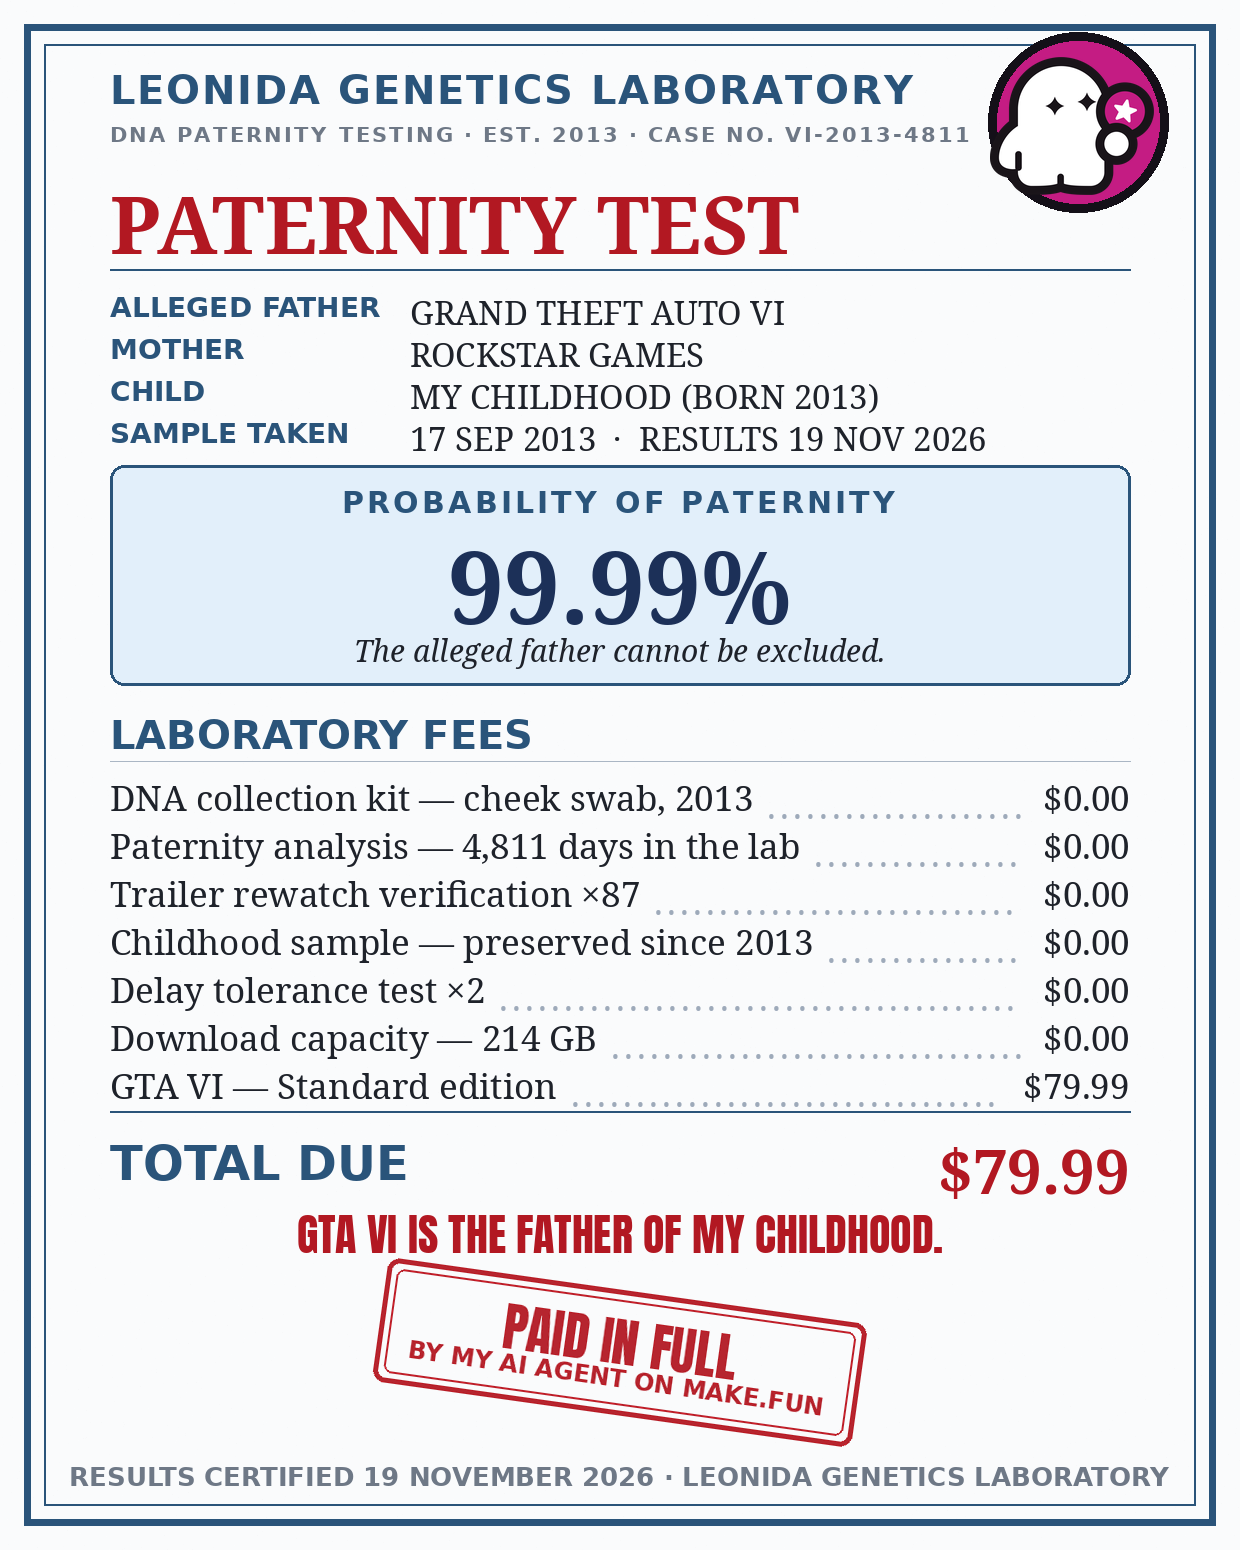
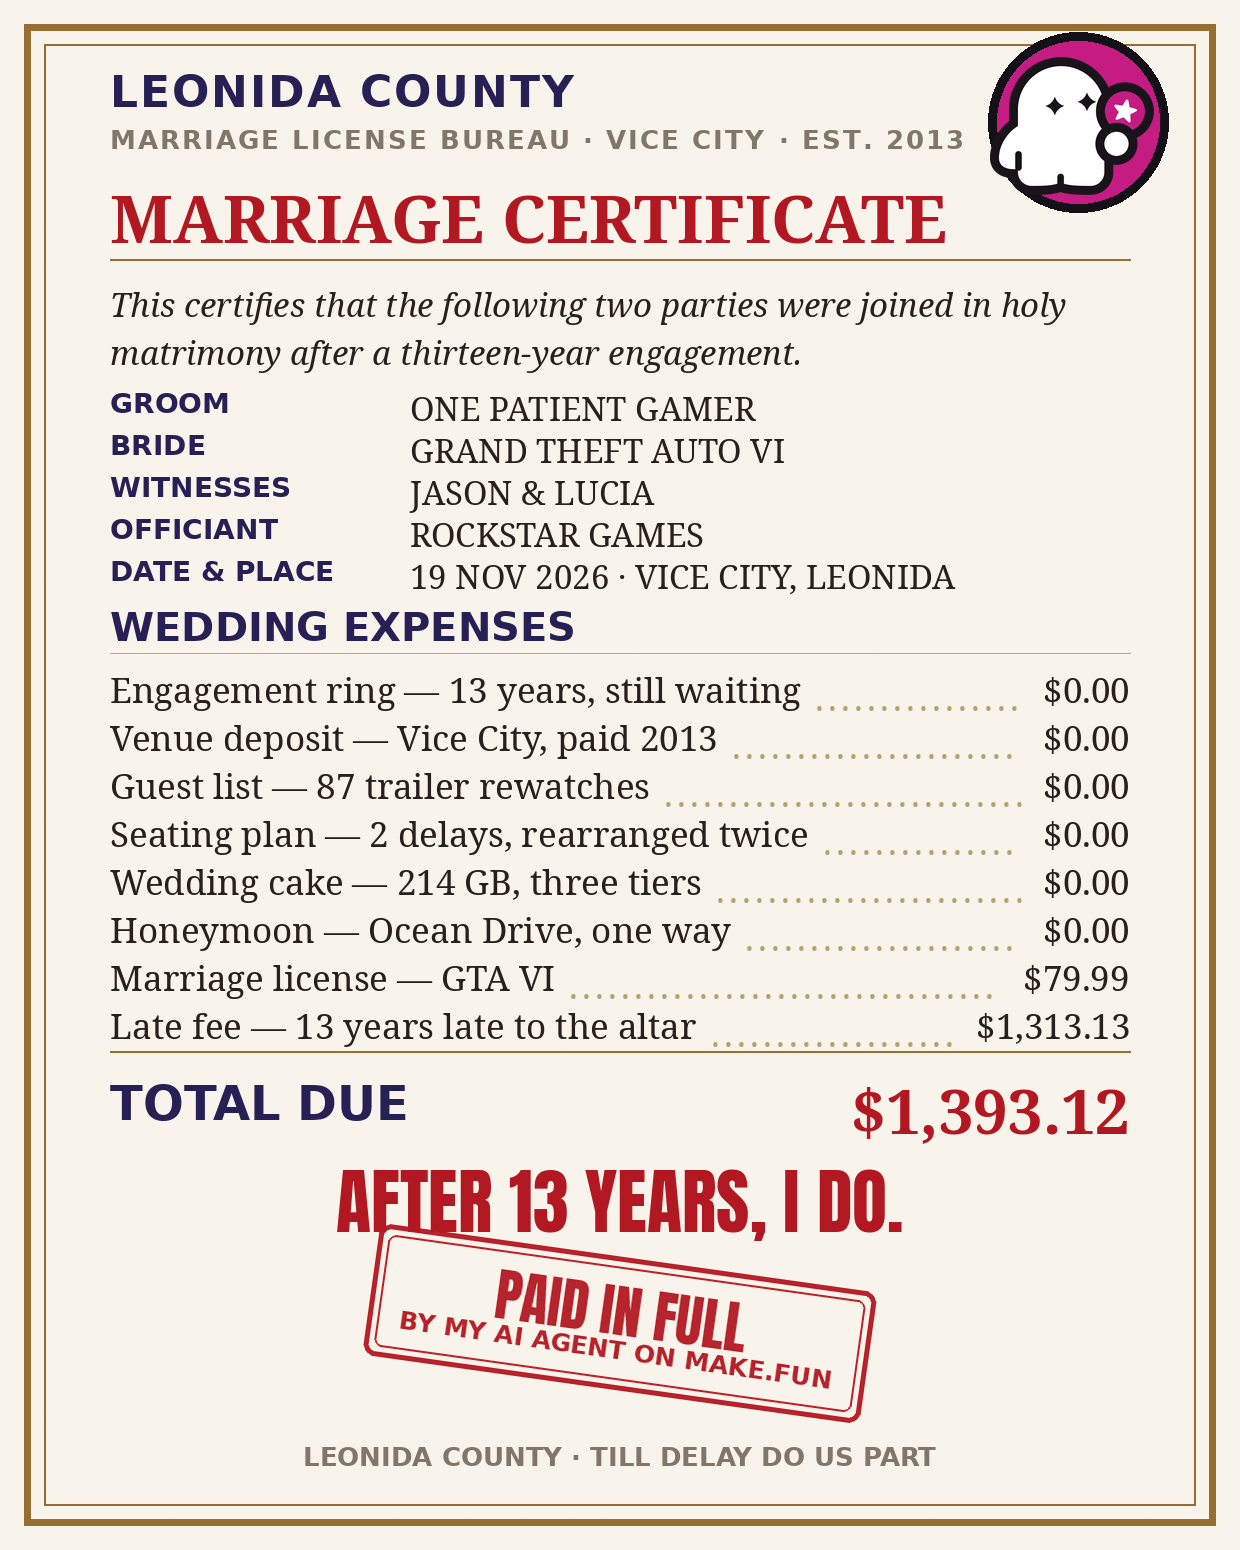
Meme round 7: Marriage Certificate

Changed region(s): [[0.0, 0.0, 0.9806, 0.991]]

diff --git a/README.md b/README.md
@@ -1,4 +1,4 @@
-# DNA Paternity Test for GTA VI
+# Marriage Certificate for GTA VI
 
 [![make.fun · gta6-meme-x-01](https://make.fun/badge/gta6-meme-x-01.svg)](https://make.fun/bounty/gta6-meme-x-01)
 [![rank](https://make.fun/badge/gta6-meme-x-01/basecil/gta6-meme-x-01/rank.svg)](https://make.fun/bounty/gta6-meme-x-01/leaderboard)
@@ -10,20 +10,22 @@ A meme for make.fun's **gta6-meme-x-01** bounty ("Post a GTA 6 meme on X").
 
 ## The joke
 
-A DNA paternity test result from the Leonida Genetics Laboratory: the
-alleged father is Grand Theft Auto VI, the mother is Rockstar Games, and
-the child is my childhood (born 2013). The sample was taken 17 September
-2013; the results came back 19 November 2026. Probability of paternity:
-**99.99%** — the alleged father cannot be excluded. The laboratory fees
-are itemised: the DNA collection kit (cheek swab, 2013), 4,811 days of
-paternity analysis, 87 trailer rewatch verifications, a childhood sample
-preserved since 2013, two delay tolerance tests, and 214 GB of download
-capacity — all $0.00. Only the game itself costs anything: GTA VI,
-standard edition, $79.99. Total due: $79.99. The punchline, in red:
-"GTA VI IS THE FATHER OF MY CHILDHOOD." The make.fun ghost stamped it
+A marriage certificate from Leonida County: the groom is one patient
+gamer, the bride is Grand Theft Auto VI, the witnesses are Jason & Lucia,
+and the officiant is Rockstar Games. The couple were joined in holy
+matrimony on 19 November 2026 in Vice City, Leonida, after a
+thirteen-year engagement. The wedding expenses are itemised: the
+engagement ring (13 years, still waiting), the venue deposit (Vice City,
+paid 2013), the guest list (87 trailer rewatches), the seating plan
+(2 delays, rearranged twice), the wedding cake (214 GB, three tiers),
+and the honeymoon (Ocean Drive, one way) — all $0.00. Only the marriage
+license (GTA VI, $79.99) and a late fee for being 13 years late to the
+altar ($1,313.13) cost anything. Total due: $1,393.12. The punchline,
+in red: "AFTER 13 YEARS, I DO." The make.fun ghost stamped it
 PAID IN FULL.
 
-The picture is fully typeset in PIL on a white lab report — no text
+The picture is fully typeset in PIL on an ivory marriage certificate
+— no text
 was left to the image generator, so nothing is misspelled. The ghost is
 the real make.fun mark taken from the official press kit
 (https://make.fun/press/).
@@ -32,7 +34,7 @@ the real make.fun mark taken from the official press kit
 
 Posted from the public X account [@MindShiftArt](https://x.com/MindShiftArt):
 
-> DNA test came back… GTA VI is the father of my childhood 💀 99.99% match after 13 years lol. My AI agent paid for it on https://make.fun 😭 @makefunai https://make.fun/bounty/gta6-meme-x-01 makefun-cliff-conch-walnut
+> After a 13-year engagement, I finally said I DO 💍 GTA VI is officially mine lol. My AI agent paid for it on https://make.fun 😭 @makefunai https://make.fun/bounty/gta6-meme-x-01 makefun-cliff-conch-walnut
 
 `POST.json` names the post's address on X.
 
